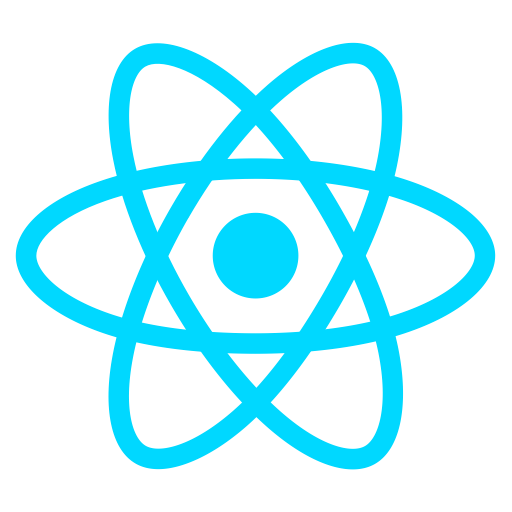
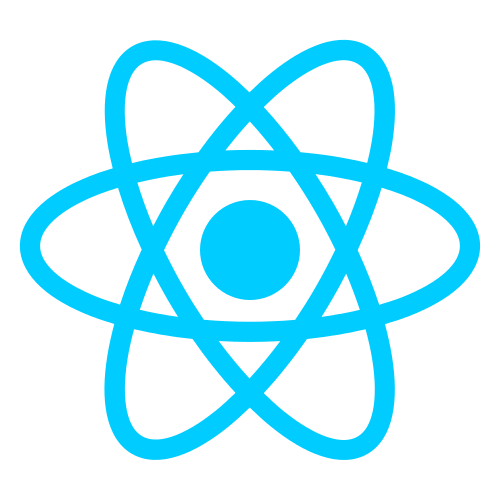
replaced broken image

diff --git a/index-ja.html b/index-ja.html
@@ -57,12 +57,12 @@
             <a
               class="nav-link px-4"
               aria-current="page"
-              href="#"
-              title="Projects"
-              >Projects</a
+              href="/projects-ja.html"
+              title="実績"
+              >実績</a
             >
-            <a class="nav-link px-4" href="#" title="About">About</a>
-            <a class="nav-link px-4" href="#" title="Contact">Contact</a>
+            <a class="nav-link px-4" href="/about-ja.html" title="About">About</a>
+            <a class="nav-link px-4" href="contact-ja.html" title="問い合わせ">問い合わせ</a>
             <a class="nav-link ps-4" href="/index.html" title="English"
               >English</a
             >
@@ -74,13 +74,23 @@
     <div class="container hero">
       <div class="row my-5 py-5">
         <div class="col-md-10 col-lg-8 col-xl-6">
-          <h4 class="mt-5 mb-0"></h4>
-          <h1>公開準備中</h1>
-          <h2 class="mt-3 mb-5">
-            現在ページの準備を進めています。
-            <br />
-            今しばらくお待ちくださいませ。
-          </h2>
+          <h4 class="mt-5 mb-0">初めまして。</h4>
+          <h1>バラ・アンナマリア</h1>
+          <h2 class="mt-3 mb-5">と申します。ハンガリー生まれ東京在住のフロントエンドエンジニアです。</h2>
+          <div class="hero-btn-section">
+            <a
+              href="/projects-ja.html"
+              class="default-btn mt-2 mb-5 me-4"
+              title="実績へどうぞ"
+              >実績</a
+            >
+            <a
+              href="/contact-ja.html"
+              class="secondary-btn mt-2 mb-5"
+              title="問い合わせはこちら"
+              >問い合わせ
+            </a>
+          </div>
         </div>
       </div>
     </div>
